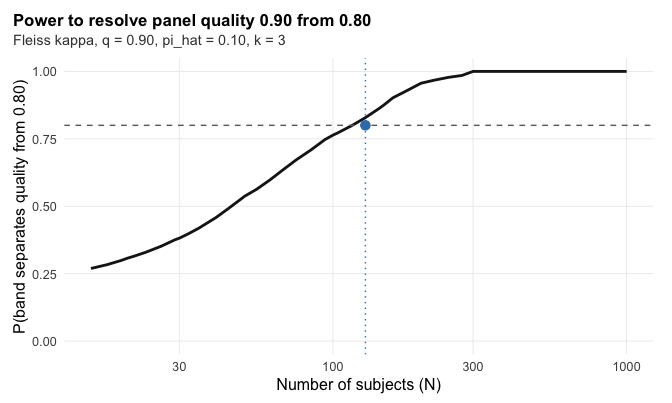
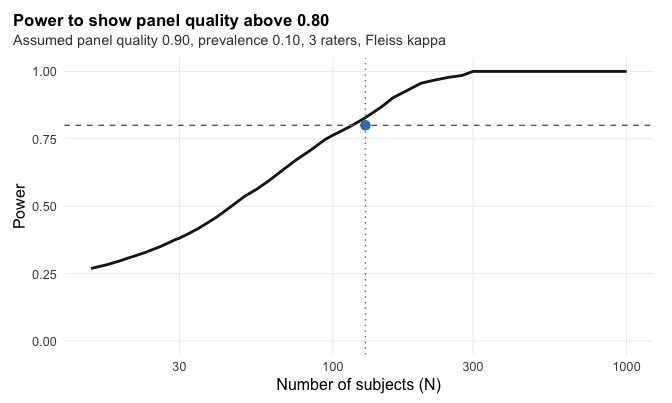
grass_power: plain-language title, subtitle, axis, header, closing line
Plot title 'Power to show panel quality above 0.80', subtitle spells out
assumed quality, prevalence, rater count; y axis 'Power'. Printed header
and closing line match. Vignette and roxygen prose follow.

Claude-Session: https://claude.ai/code/session_01RdMK6qpG6dbkASR2kdFTi9

Changed region(s): [[0.0, 0.0298, 0.6875, 0.1191], [0.0, 0.2084, 0.0625, 0.8337]]

diff --git a/NEWS.md b/NEWS.md
@@ -15,8 +15,8 @@ change; on-node readings are unchanged up to storage quantization.
   show about the panel, and how many more subjects or raters it would
   take to show more. In the `power.t.test()` convention, fix four of
   `q`, `pi_hat`, `k`, `N`, `power` and it solves for the fifth; `q0`
-  sets the resolution, the study is sized to discern quality `q` from
-  `q0`. Power is read from the sweep
+  sets the resolution, the study is sized to show that quality `q` is
+  above `q0`. Power is read from the sweep
   `position_on_surface()` already returns; nothing new is calibrated,
   and power rises with sample size at every design. `N` and `k` solve
   to the smallest feasible value or return `NA` with the reason;
